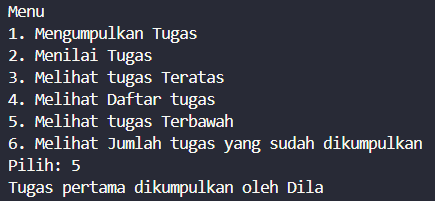
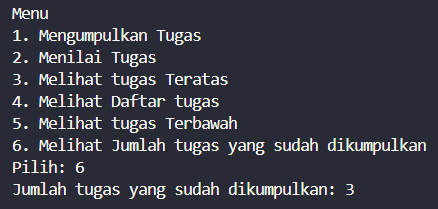
final

Changed region(s): [[0.0, 0.0299, 0.9862, 0.9851]]

diff --git a/Jobsheet9/StackSurat.java b/Jobsheet9/StackSurat.java
@@ -1,0 +1,82 @@
+package Jobsheet9;
+
+public class StackSurat {
+    Surat02[] data;
+    int top;
+    int kapasitas = 100;
+
+    public StackSurat() {
+        data = new Surat02[kapasitas];
+        top = -1;
+    }
+
+    public void push(Surat02 surat) {
+        if (top < kapasitas - 1) {
+            top++;
+            data[top] = surat;
+        } else {
+            System.out.println("Stack penuh.");
+        }
+    }
+
+    public Surat02 pop() {
+        if (!isEmpty()) {
+            Surat02 s = data[top];
+            top--;
+            return s;
+        }
+        return null;
+    }
+
+    public Surat02 peek() {
+        if (!isEmpty()) {
+            return data[top];
+        }
+        return null;
+    }
+
+    public boolean isEmpty() {
+        return top == -1;
+    }
+
+    public void prosesSurat() {
+        Surat02 surat = pop();
+        if (surat != null) {
+            System.out.println("Surat atas nama " + surat.namaMahasiswa + " telah diproses.");
+        } else {
+            System.out.println("Tidak ada surat untuk diproses.");
+        }
+    }
+
+    public void lihatSuratTerakhir() {
+        Surat02 surat = peek();
+        if (surat != null) {
+            System.out.println("Surat Terakhir:");
+            tampilkan(surat);
+        } else {
+            System.out.println("Tidak ada surat.");
+        }
+    }
+
+    public void cariSurat(String nama) {
+        boolean ditemukan = false;
+        for (int i = top; i >= 0; i--) {
+            if (data[i].namaMahasiswa.equalsIgnoreCase(nama)) {
+                System.out.println("Surat ditemukan:");
+                tampilkan(data[i]);
+                ditemukan = true;
+            }
+        }
+        if (!ditemukan) {
+            System.out.println("Surat tidak ditemukan.");
+        }
+    }
+
+    private void tampilkan(Surat02 surat) {
+        System.out.println("ID Surat   : " + surat.idSurat);
+        System.out.println("Nama       : " + surat.namaMahasiswa);
+        System.out.println("Kelas      : " + surat.kelas);
+        System.out.println("Jenis Izin : " + surat.jenisIzin);
+        System.out.println("Durasi     : " + surat.durasi + " hari");
+    }
+}

diff --git a/Jobsheet9/StackDemo02.java b/Jobsheet9/StackDemo02.java
@@ -1,0 +1,64 @@
+package Jobsheet9;
+
+import java.util.Scanner;
+
+public class StackDemo02 {
+    public static void main(String[] args) {
+        StackSurat stack = new StackSurat();
+        Scanner sc = new Scanner(System.in);
+        int pilihan;
+
+        do {
+            System.out.println("\nMenu:");
+            System.out.println("1. Terima Surat Izin");
+            System.out.println("2. Proses Surat Izin");
+            System.out.println("3. Lihat Surat Izin Terakhir");
+            System.out.println("4. Cari Surat");
+            System.out.println("0. Keluar");
+            System.out.print("Pilihan: ");
+            pilihan = sc.nextInt();
+            sc.nextLine();
+
+            switch (pilihan) {
+                case 1:
+                    System.out.print("ID Surat: ");
+                    String id = sc.nextLine();
+                    System.out.print("Nama Mahasiswa: ");
+                    String nama = sc.nextLine();
+                    System.out.print("Kelas: ");
+                    String kelas = sc.nextLine();
+                    System.out.print("Jenis Izin (S/I): ");
+                    char jenis = sc.nextLine().toUpperCase().charAt(0);
+                    System.out.print("Durasi (hari): ");
+                    int durasi = sc.nextInt();
+                    sc.nextLine();
+
+                    stack.push(new Surat02(id, nama, kelas, jenis, durasi));
+                    break;
+
+                case 2:
+                    stack.prosesSurat();
+                    break;
+
+                case 3:
+                    stack.lihatSuratTerakhir();
+                    break;
+
+                case 4:
+                    System.out.print("Masukkan nama mahasiswa: ");
+                    String cari = sc.nextLine();
+                    stack.cariSurat(cari);
+                    break;
+
+                case 0:
+                    System.out.println("Program selesai.");
+                    break;
+
+                default:
+                    System.out.println("Pilihan tidak valid.");
+            }
+        } while (pilihan != 0);
+
+        sc.close();
+    }
+}

diff --git a/Jobsheet9/Surat02.java b/Jobsheet9/Surat02.java
@@ -1,0 +1,19 @@
+package Jobsheet9;
+
+public class Surat02 {
+    String idSurat;
+    String namaMahasiswa;
+    String kelas;
+    char jenisIzin;
+    int durasi;
+
+    public Surat02() {}
+
+    public Surat02(String idSurat, String namaMahasiswa, String kelas, char jenisIzin, int durasi) {
+        this.idSurat = idSurat;
+        this.namaMahasiswa = namaMahasiswa;
+        this.kelas = kelas;
+        this.jenisIzin = jenisIzin;
+        this.durasi = durasi;
+    }
+}

diff --git a/Jobsheet9/StackTugasMahasiswa02.java b/Jobsheet9/StackTugasMahasiswa02.java
@@ -52,7 +52,7 @@ public class StackTugasMahasiswa02 {
 
     public String konversiDesimalKeBiner(int nilai) {
         StackKonversi stack = new StackKonversi();
-        while (nilai > 0) {
+        while (nilai != 0) {
             int sisa = nilai %2;
             stack.push(sisa);
             nilai = nilai / 2;

diff --git a/Jobsheet9/StackKonversi.java b/Jobsheet9/StackKonversi.java
@@ -17,7 +17,7 @@ public class StackKonversi {
         return top == size -1;
     }
     public void push(int data) {
-        if (isEmpety()) {
+        if (isFull()) {
             System.out.println("Stack penuh");
         } else {
             top++;

diff --git a/Jobsheet9/Laporan.md b/Jobsheet9/Laporan.md
@@ -9,7 +9,7 @@
 #### 2.1.1 Langkah-langkah Percobaan
 ![Screenshot](img/1.png)
 ![Screenshot](img/2.png)
-![Screenshot](img/3.png)
+
 
 #### 2.1.3 Pertanyaan
 1. **Lakukan perbaikan pada kode program, sehingga keluaran yang dihasilkan sama dengan verifikasi hasil percobaan! Bagian mana yang perlu diperbaiki?**
@@ -33,7 +33,7 @@
 3. **Mengapa perlu pengecekan kondisi !isFull() pada method push? Kalau kondisi if-else tersebut dihapus, apa dampaknya?**
 - Pengecekan !isFull() pada method push() penting untuk mencegah penambahan data saat stack penuh. Tanpa pengecekan ini, program bisa error karena mengakses indeks di luar batas array.
 4. **Modifikasi kode program pada class MahasiswaDemo dan StackTugasMahasiswa sehingga pengguna juga dapat melihat mahasiswa yang pertama kali mengumpulkan tugas melalui operasi lihat tugas terbawah!**
-![Screenshot](img/4.png)
+![Screenshot](img/3.png)
 -
 1. Modifikasi MahasiswaDemo02.java
 ```java
@@ -65,7 +65,7 @@ case 5:
 ```
 
 5. **Tambahkan method untuk dapat menghitung berapa banyak tugas yang sudah dikumpulkan saat ini, serta tambahkan operasi menunya!**
-![Screenshot](img/5.png)
+![Screenshot](img/4.png)
 
 ```java
     //Menghitung berapa banyak tugas yang sudah dikumpulkan
@@ -80,3 +80,15 @@ case 5:
 ```
 
 #### 2.2.1 Langkah-langkah Percobaan
+![Screenshot](img/5.png)
+
+#### 2.2.3 Pertanyaan
+1. **Jelaskan alur kerja dari method konversiDesimalKeBiner!**
+- Method `konversiDesimalKeBiner` dipakai buat ngubah angka desimal jadi biner dengan cara membagi angkanya terus-menerus dengan 2, lalu tiap sisa bagi ditaruh di depan hasil. Proses ini diulang sampai angkanya habis, dan hasil akhirnya dikembalikan sebagai bilangan biner.
+
+2. **Pada method konversiDesimalKeBiner, ubah kondisi perulangan menjadi while (kode != 0), bagaimana hasilnya? Jelaskan alasannya!**
+- Hasilnya bakal sama aja bakal selama bernilai positif
+
+#### 2.4 Latihan Praktikum
+![Screenshot](img/6.png)
+![Screenshot](img/7.png)
